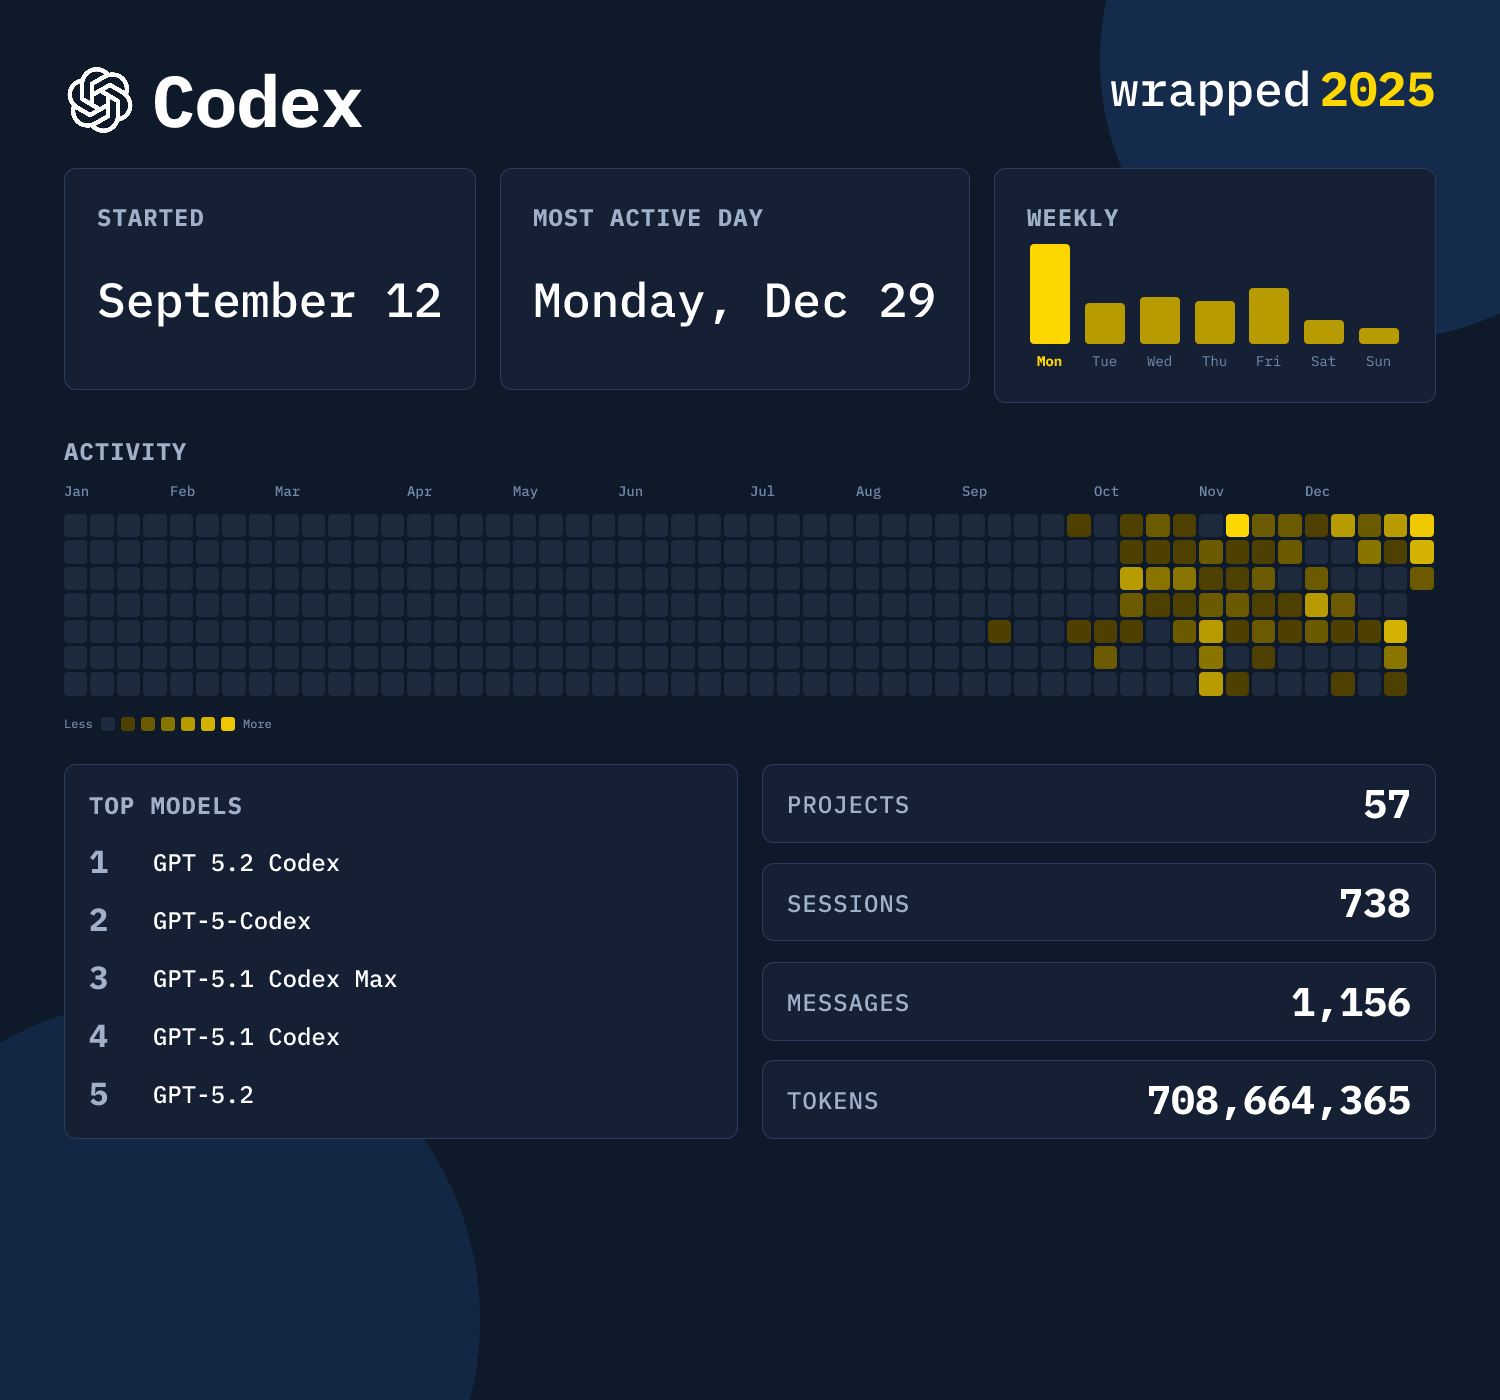
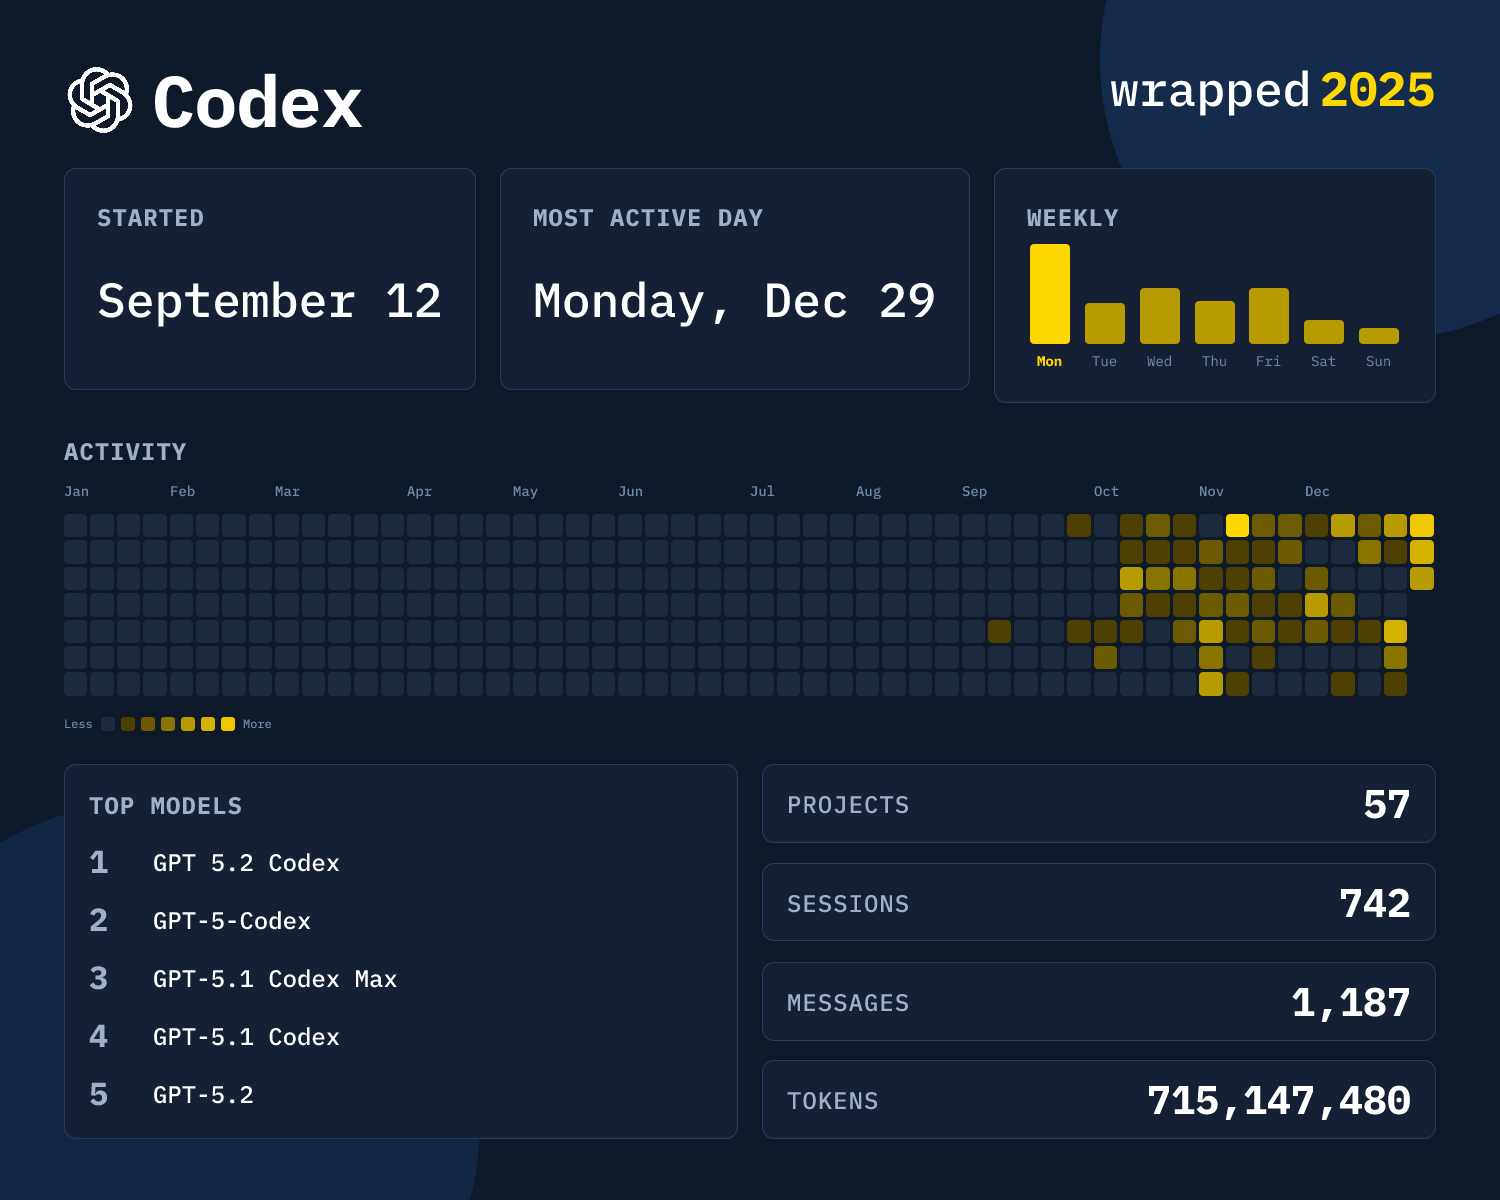
Set wrapped canvas height to 1200

diff --git a/src/image/design-tokens.ts b/src/image/design-tokens.ts
@@ -165,7 +165,7 @@ export const layout = {
   // Canvas dimensions
   canvas: {
     width: 1500,
-    height: 1400,
+    height: 1200,
   },
 
   // Container padding
